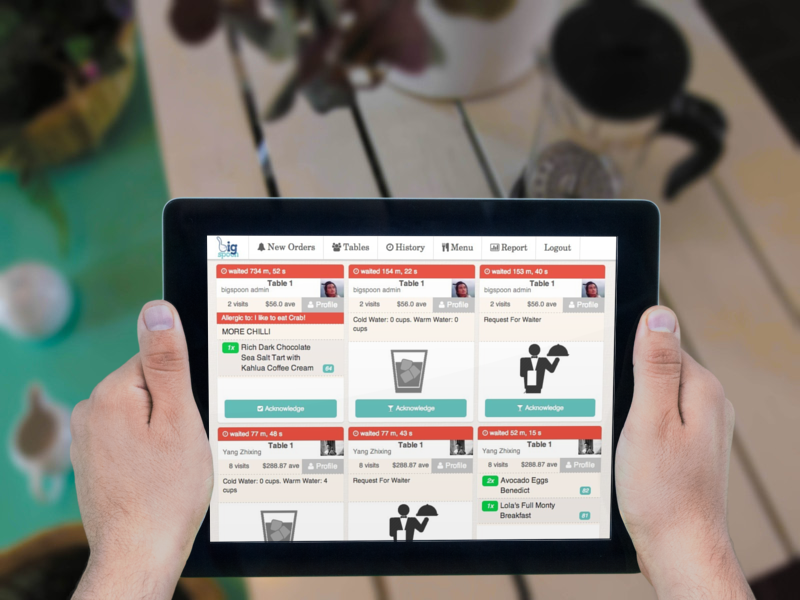
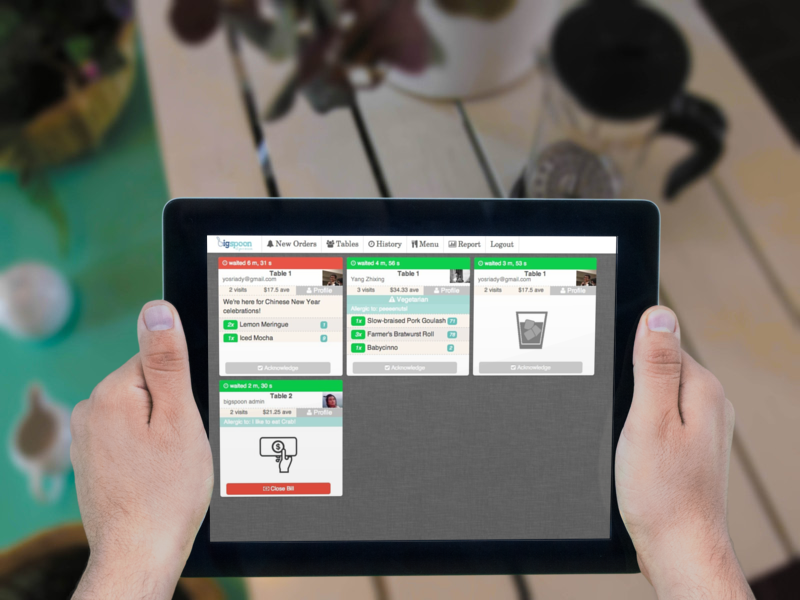
Update staff screenshots, minor fixes

Changed region(s): [[0.25, 0.39, 0.7812, 0.93]]

diff --git a/src/backend/bigspoon/bigspoon/assets/css/index.css b/src/backend/bigspoon/bigspoon/assets/css/index.css
@@ -223,7 +223,7 @@ h1 {
 }
 
 .side {
-  max-width: 65%;
+  max-width: 70%;
   display:block;
   margin: 0 auto;
 }
@@ -233,7 +233,8 @@ h1 {
 }
 
 .side span {
-  padding: 0 3%;
+  width: 50%;
+  margin-left: -1%;
   float: left;
   /*margin-bottom:-20px;*/
 }
@@ -241,7 +242,7 @@ h1 {
 .side span.screenshot-ios {
   width: 30%;
   padding: 0px;
-  margin: 0px 12.6% 0px 6.5%;
+  margin: 0px 10%;
   margin-top: 40px;
   /*margin-bottom:-20px;*/
 }

diff --git a/src/backend/bigspoon/bigspoon/assets/css/main.css b/src/backend/bigspoon/bigspoon/assets/css/main.css
@@ -455,6 +455,7 @@ p.note {
 
 .order li em.pos{
     padding:2px 5px;
+    margin-left: 5px;
     border-radius:5px;
     background-color:#61C0B9;
     color: #fff;
